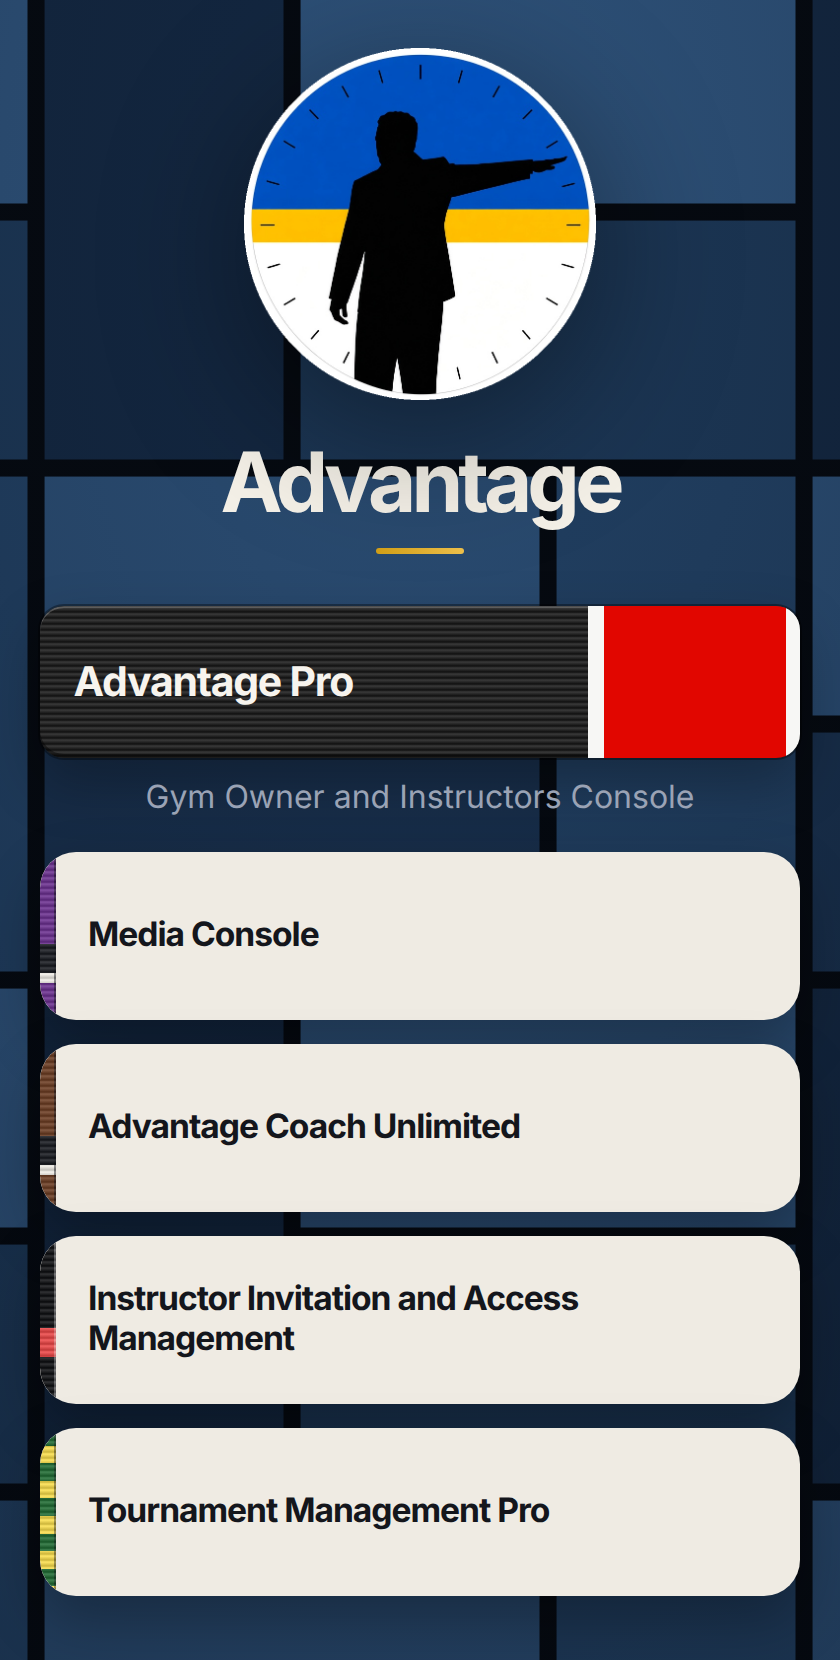
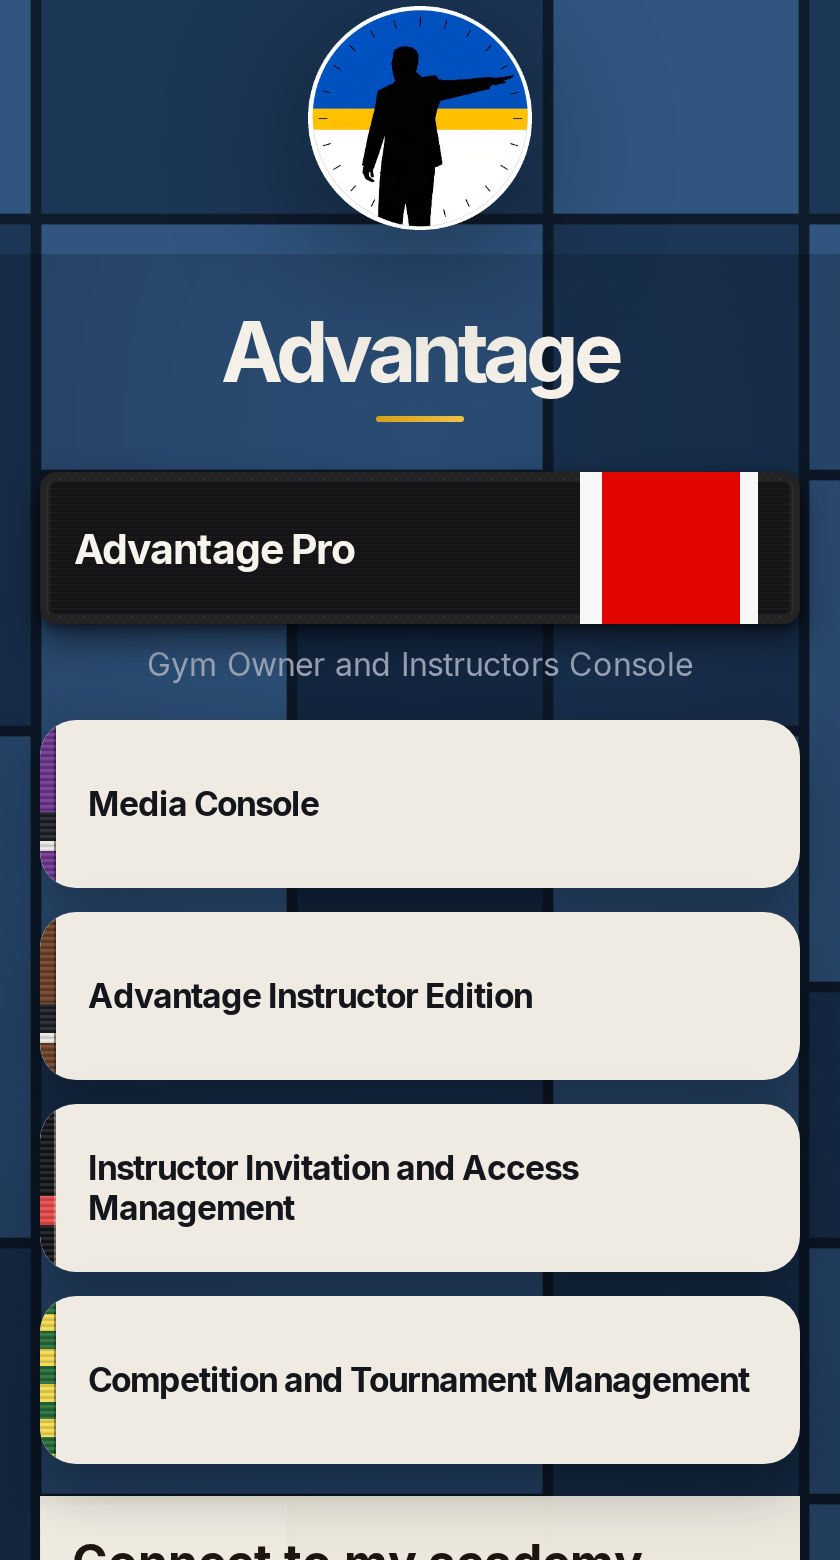
Rename the Pro tournament hub to Competition and Tournament Management.
Keep that button last. The suite heading, its aria label, the Coming Soon copy, and the Pro preview image use the new name. Competitor Roster stays on Coach Unlimited.

diff --git a/e2e/coach-back-target.spec.ts b/e2e/coach-back-target.spec.ts
@@ -48,14 +48,14 @@ test('Coach Unlimited and Pro keep their own back target', async ({ page }) => {
   await openToolAndBack(page, '/coach-unlimited', 'Competitor Roster', '/coach-unlimited');
 
   await page.goto('/pro');
-  await page.getByRole('link', { name: 'Advantage Coach Unlimited', exact: true }).click();
+  await page.getByRole('link', { name: 'Advantage Instructor Edition', exact: true }).click();
   await expect(page).toHaveURL(/\/coach-unlimited$/);
   await page.getByRole('link', { name: 'Daily Training Videos', exact: true }).click();
   await page.getByRole('link', { name: BACK }).click();
   await expect(page).toHaveURL(/\/coach-unlimited$/);
 
   await page.goto('/pro');
-  await page.getByRole('link', { name: 'Tournament Management Pro', exact: true }).click();
+  await page.getByRole('link', { name: 'Competition and Tournament Management', exact: true }).click();
   await expect(page).toHaveURL(/\/suite$/);
   await page.getByRole('link', { name: 'Brackets-Tournament Software', exact: true }).click();
   await expect(page.getByRole('heading', { level: 1, name: 'Tournament Software' })).toBeVisible();

diff --git a/src/lib/productNames.test.ts b/src/lib/productNames.test.ts
@@ -293,8 +293,8 @@ test('Pro console hubs stay four siblings, Media Console first', () => {
   );
   assert.equal(MATCH_CONTROLLER_PATH, '/match/control');
   assert.equal(ROUND_CONTROLLER_PATH, '/training/control');
-  assert.equal(TOURNAMENT_MANAGEMENT_PRO_LABEL, 'Tournament Management Pro');
-  assert.equal(PRO_HUBS[3].title, 'Tournament Management Pro');
+  assert.equal(TOURNAMENT_MANAGEMENT_PRO_LABEL, 'Competition and Tournament Management');
+  assert.equal(PRO_HUBS[3].title, 'Competition and Tournament Management');
   assert.equal(COMPETITION_MANAGEMENT_PRO_LABEL, 'Competition Management Pro');
   assert.equal(
     TOURNAMENT_MANAGEMENT_PRO_LEAD,
@@ -583,7 +583,7 @@ const PRO_BUTTONS = [
   'Media Console',
   'Advantage Instructor Edition',
   'Instructor Invitation and Access Management',
-  'Tournament Management Pro',
+  'Competition and Tournament Management',
 ] as const;
 
 test('Pro console buttons stay those four labels, in that order, for owner, Pro, and a seat', () => {

diff --git a/e2e/nav-matrix.spec.ts b/e2e/nav-matrix.spec.ts
@@ -158,9 +158,9 @@ test('Coach Unlimited tools go back to Coach Unlimited and home to the tier pick
 test('Pro menus go back to Pro and home to the tier picker', async ({ page }) => {
   await unlock(page);
   const proMenus = [
-    'Advantage Coach Unlimited',
+    'Advantage Instructor Edition',
     'Instructor Invitation and Access Management',
-    'Tournament Management Pro',
+    'Competition and Tournament Management',
   ] as const;
   for (const name of proMenus) {
     await page.goto('/pro');
@@ -334,7 +334,7 @@ test('Class Schedule goes back to Media Console; the center home stays off the p
   await expect.poll(() => pathOf(page)).toBe('/slideshow?folder=gallery');
 });
 
-test('Tournament Management Pro and CMS tiles go back one level and home to the tier picker', async ({ page }) => {
+test('Competition and Tournament Management and CMS tiles go back one level and home to the tier picker', async ({ page }) => {
   await unlock(page);
 
   await page.goto('/suite');

diff --git a/src/lib/productNames.ts b/src/lib/productNames.ts
@@ -229,7 +229,7 @@ export const TOURNAMENT_SUITE_NAME = 'In-House Tournament Management Suite';
  * Fourth Advantage Pro hub button and the heading on the page it opens.
  * The Coming Soon ad keeps COMPETITION_MANAGEMENT_PRO_LABEL.
  */
-export const TOURNAMENT_MANAGEMENT_PRO_LABEL = 'Tournament Management Pro';
+export const TOURNAMENT_MANAGEMENT_PRO_LABEL = 'Competition and Tournament Management';
 
 /**
  * Lead under that heading. Rankings stay on Competitor Management System.
@@ -306,7 +306,7 @@ export function withSuiteFrom(path: string, fromSuite: boolean): string {
 }
 
 /**
- * Tournament Management Pro folder, top to bottom.
+ * Competition and Tournament Management folder, top to bottom.
  * Brackets and Competitor Management System use the yellow/green competition belt.
  * Scoreboard and Round Timer use the black belt. Both stay title-only.
  * Brackets opens the same mock-tournament board.

diff --git a/e2e/gallery-header.spec.ts b/e2e/gallery-header.spec.ts
@@ -10,7 +10,7 @@ const SCROLLING_MENUS: { path: string; heading: string; logo: string }[] = [
   { path: '/coach', heading: 'Advantage - Coach', logo: '.home__logo' },
   { path: '/coach-unlimited', heading: 'Instructor Edition', logo: '.home__logo' },
   { path: '/instructors', heading: 'Instructor Invitations and Access Management', logo: '.home__logo' },
-  { path: '/suite', heading: 'Tournament Management Pro', logo: '.home__logo' },
+  { path: '/suite', heading: 'Competition and Tournament Management', logo: '.home__logo' },
   { path: '/white', heading: 'Advantage - White', logo: '.home__logo' },
 ];
 

diff --git a/src/lib/comingSoonAds.ts b/src/lib/comingSoonAds.ts
@@ -62,7 +62,7 @@ export const PRO_CONSOLE_PREVIEW_LABEL = 'Advantage Pro';
 
 /** One line under that shot. The picture is the live four-hub console, not a wireframe. */
 export const PRO_CONSOLE_PREVIEW_NOTE =
-  'Media Console, Advantage Instructor Edition, instructor invites, and Tournament Management Pro.';
+  'Media Console, Advantage Instructor Edition, instructor invites, and Competition and Tournament Management.';
 
 /** Shown on Coming soon. Not a checkout button. */
 export const COACH_LAUNCH_PRICE_NOTE = `Price: ${INSTRUCTOR_DISPLAY_PRICE_LINE} when it launches. Not for sale on this page.`;

diff --git a/src/components/ComingSoonAd.tsx b/src/components/ComingSoonAd.tsx
@@ -116,7 +116,7 @@ function ProConsolePreview() {
     <figure className="soon-ad__preview">
       <img
         src="/pro-console-preview.png"
-        alt="Advantage Pro home with Advantage Pro on the black belt, then Media Console, Advantage Instructor Edition, Instructor Invitation and Access Management, and Tournament Management Pro"
+        alt="Advantage Pro home with Advantage Pro on the black belt, then Media Console, Advantage Instructor Edition, Instructor Invitation and Access Management, and Competition and Tournament Management"
         width={840}
         height={1660}
       />

diff --git a/src/lib/comingSoonAds.test.ts b/src/lib/comingSoonAds.test.ts
@@ -140,7 +140,7 @@ test('Pro ad lists the live Pro hubs and keeps launch pricing off the feature co
   assert.equal(PRO_CONSOLE_PREVIEW_LABEL, 'Advantage Pro');
   assert.equal(
     PRO_CONSOLE_PREVIEW_NOTE,
-    'Media Console, Advantage Instructor Edition, instructor invites, and Tournament Management Pro.',
+    'Media Console, Advantage Instructor Edition, instructor invites, and Competition and Tournament Management.',
   );
   assert.doesNotMatch(PRO_CONSOLE_PREVIEW_NOTE, /placeholder|wireframe|coming/i);
   assert.match(text, /Coming Soon/);

diff --git a/e2e/hide-screen.spec.ts b/e2e/hide-screen.spec.ts
@@ -187,7 +187,7 @@ test('Coach Unlimited and Pro lesson plans use the same hide screen', async ({ p
   await expect(page).toHaveURL(/\/coach-unlimited$/);
 
   await page.goto('/pro');
-  await page.getByRole('link', { name: 'Advantage Coach Unlimited', exact: true }).click();
+  await page.getByRole('link', { name: 'Advantage Instructor Edition', exact: true }).click();
   await page.getByRole('link', { name: 'Daily Lesson Plan', exact: true }).click();
   await openLesson(page, page.url());
   await expect(page).toHaveURL(/plan=unlimited/);

diff --git a/src/components/SuiteMenuLinks.tsx b/src/components/SuiteMenuLinks.tsx
@@ -4,7 +4,7 @@ import type { SuiteMenuLink } from '../lib/productNames';
 import { BeltRail } from './BeltRail';
 
 /**
- * Stacked menu buttons from Tournament Management Pro (/suite).
+ * Stacked menu buttons from Competition and Tournament Management (/suite).
  * The Media Edition screen reuses the same buttons, so they look and open the same.
  */
 export function SuiteMenuLinks({ links, label }: { links: readonly SuiteMenuLink[]; label: string }) {
